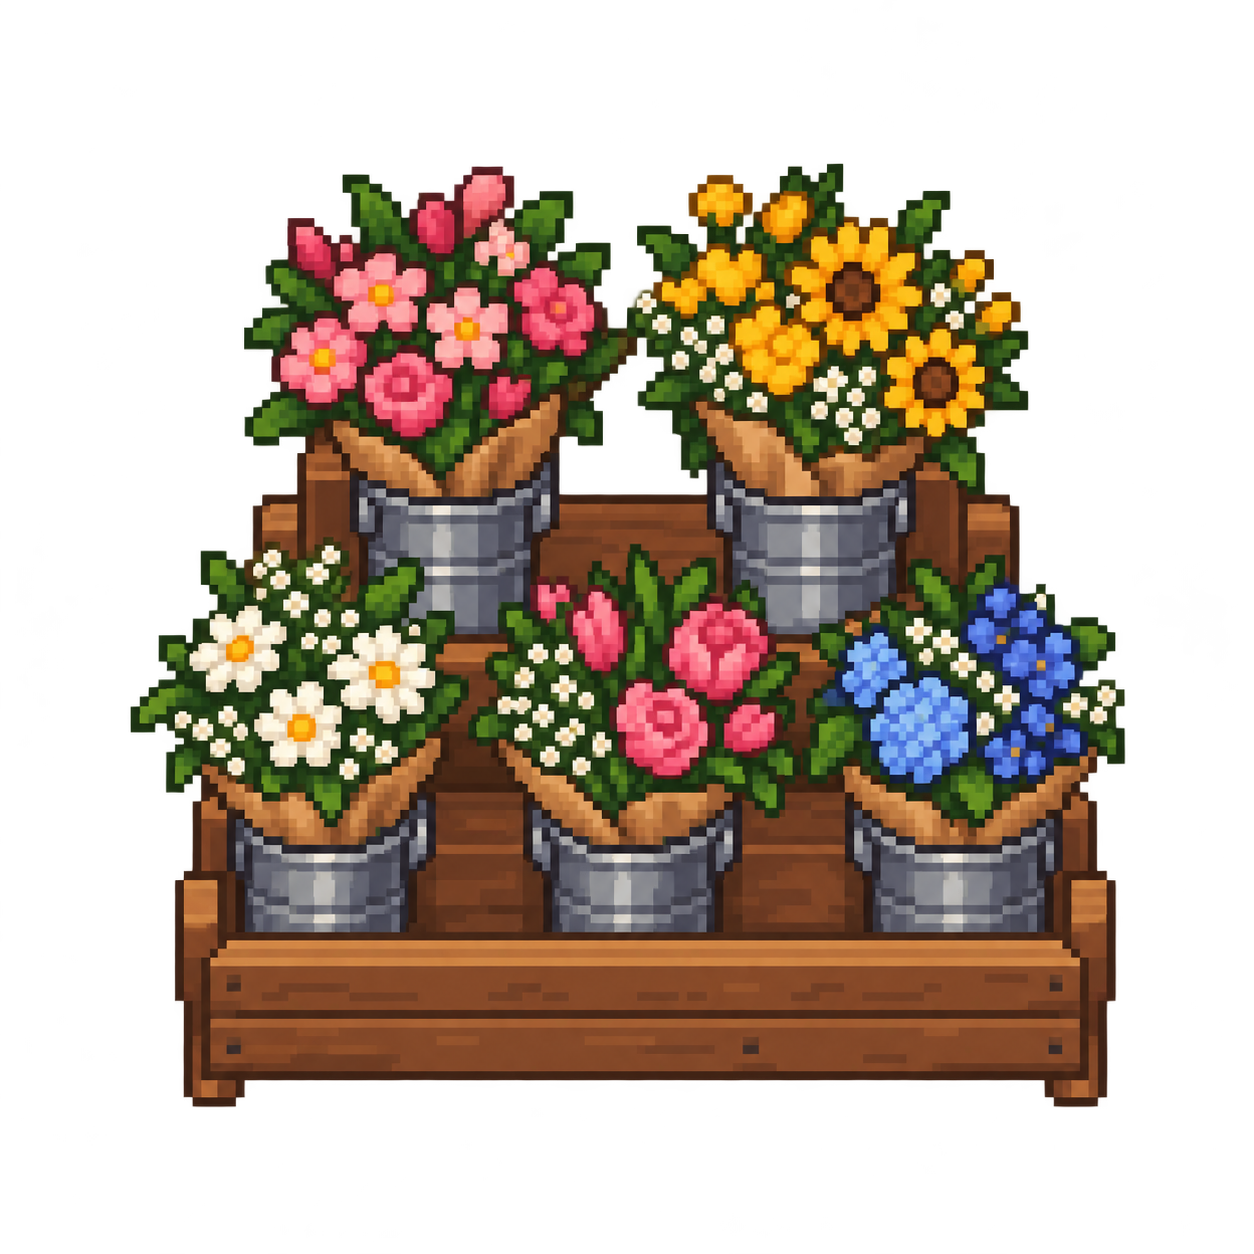
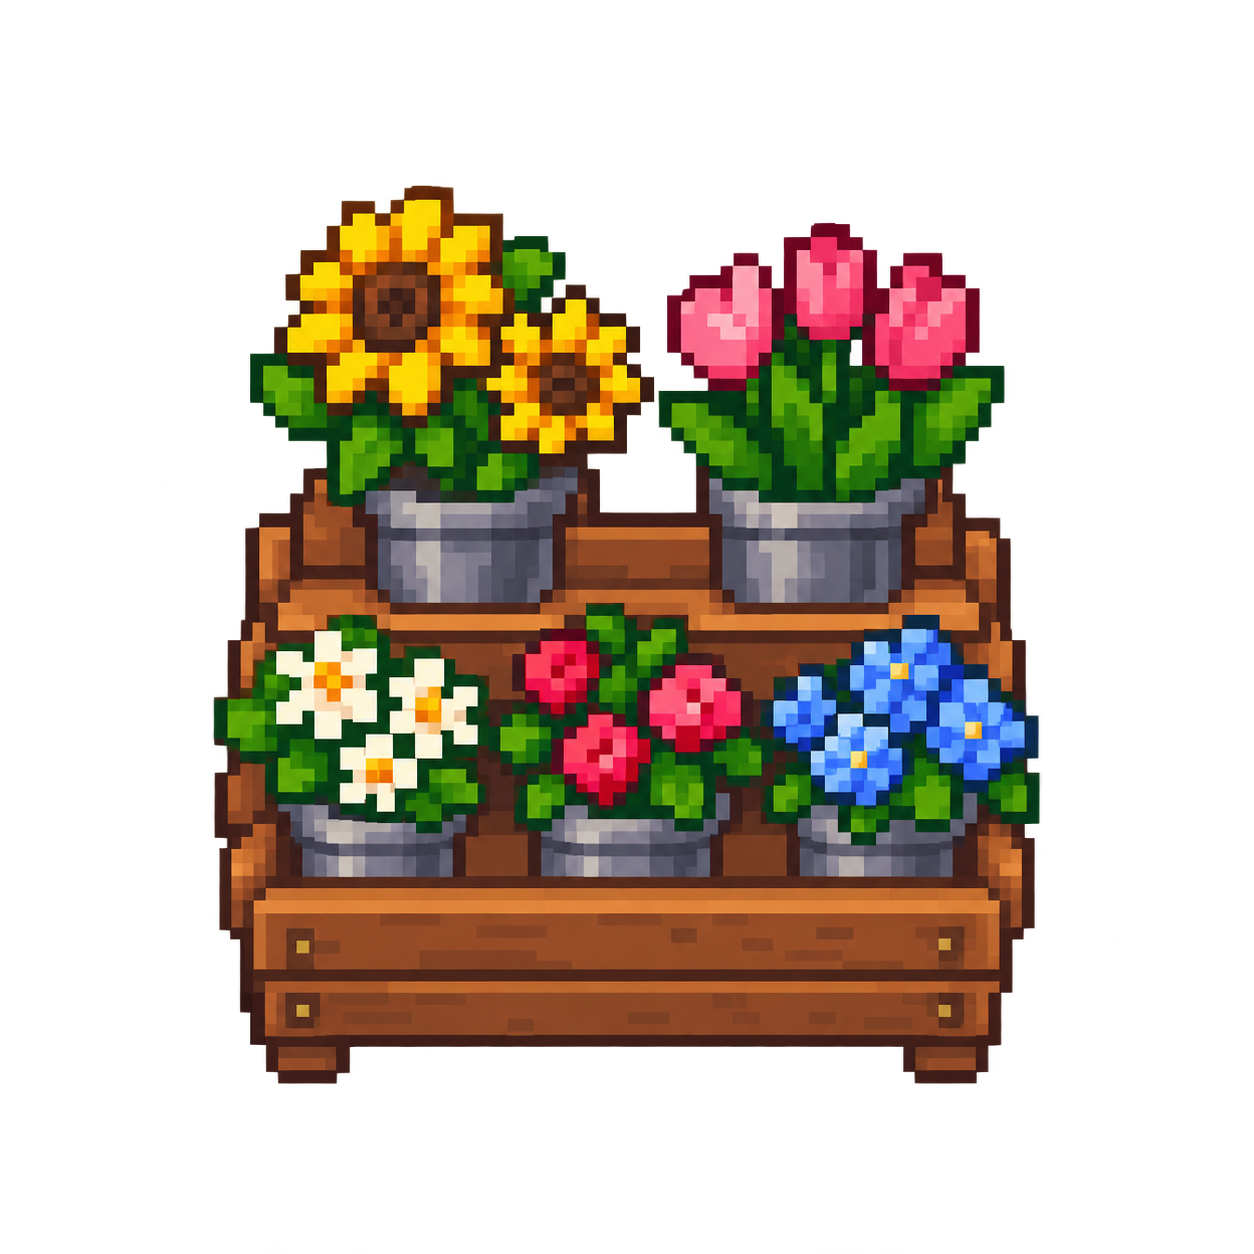
added coins and time tracking

diff --git a/src/main.js b/src/main.js
@@ -21,12 +21,16 @@ import bookshelfTallUrl from '../assets/tallbookshelf.png';
 import flowerShelfUrl from '../assets/flowershelf.png';
 import cashRegisterUrl from '../assets/cashregister.png';
 import flowerPotsUrl from '../assets/flowerpots.png';
+import longerFlowerUrl from '../assets/longerflower.png';
 import flowerPostUrl from '../assets/flowerpost.png';
 import flowerTentUrl from '../assets/flowertent.png';
 import fountainUrl from '../assets/fountain.png';
 import slideUrl from '../assets/slide.png';
 import wildflowersUrl from '../assets/wildflowers.png';
 import librarySignUrl from '../assets/librarysign.png';
+import coinUrl from '../assets/coin.png';
+import sunUrl from '../assets/sun.png';
+import moonUrl from '../assets/Moon.png';
 
 const canvas = document.getElementById('game');
 const screen = canvas.getContext('2d');
@@ -413,9 +417,7 @@ const SHOP = { x: 300, w: 680, bottom: 390, door: { x: 565, w: 150 } };
 const SHOP_PLAZA_Y = 440;
 const SHOP_SHELF_BOTTOM = 206;
 const SHOP_WALL_SHELF_SPECS = [
-  { frame: 'flowerShelf', x: 330, h: 150 },
-  { frame: 'flowerShelf', x: 466, h: 150 },
-  { frame: 'flowerShelf', x: 674, h: 150 },
+  { frame: 'flowerShelf', x: 360, h: 150 },
   { frame: 'flowerShelf', x: 810, h: 150 },
 ];
 let shopWallShelves = [];
@@ -430,7 +432,7 @@ const SHOP_WALKABLE = [
 const SHOP_ITEMS = [
   // inside
   { frame: 'cashRegister', x: 345, y: 235, h: 100, hits: [[0.02, 0.5, 0.96, 0.5]] },
-  { frame: 'flowerPots', x: 820, y: 225, h: 120, hits: [[0.05, 0.55, 0.9, 0.45]] },
+  { frame: 'longerFlower', x: 512, y: 100, h: 106, hits: [] },
   { s: 'plant_large', x: 335, y: 320, ground: true },
   { s: 'plant_large', x: 915, y: 320, ground: true },
   { s: 'plant_flower', x: 790, y: 330, ground: true },
@@ -582,12 +584,16 @@ const PLAYER_URLS = {
   flowerShelf: flowerShelfUrl,
   cashRegister: cashRegisterUrl,
   flowerPots: flowerPotsUrl,
+  longerFlower: longerFlowerUrl,
   flowerPost: flowerPostUrl,
   flowerTent: flowerTentUrl,
   fountain: fountainUrl,
   slide: slideUrl,
   wildflowers: wildflowersUrl,
   librarySign: librarySignUrl,
+  coin: coinUrl,
+  sun: sunUrl,
+  moon: moonUrl,
 };
 let grassImage = null;
 const frames = {};
@@ -985,9 +991,174 @@ function buildScenes() {
   };
 
   scene = scenes.cafe;
+  spawnCoins();
 }
 
-function render() {
+// ---- Clock, coins, HUD ----
+
+const COIN_VALUE = 10;
+const COINS_PER_SCENE = 6;
+const DAY_START = 6 * 60;
+const DAY_END = 26 * 60;
+const CLOCK_RATE = 10 / 7; // game minutes per real second
+const WEEKDAYS = ['Mon', 'Tue', 'Wed', 'Thu', 'Fri', 'Sat', 'Sun'];
+const SAVE_KEY = 'moonlightCafeSave';
+
+const game = { coins: 0, day: 1, minutes: 9 * 60 + 30, coinBump: 0 };
+const pops = [];
+let saveTimer = 0;
+
+try {
+  const saved = JSON.parse(localStorage.getItem(SAVE_KEY));
+  if (saved) {
+    game.coins = saved.coins | 0;
+    game.day = Math.max(1, saved.day | 0);
+    game.minutes = Math.min(Math.max(saved.minutes || DAY_START, DAY_START), DAY_END - 1);
+  }
+} catch { /* no saved game */ }
+
+function saveGame() {
+  try {
+    localStorage.setItem(SAVE_KEY, JSON.stringify({ coins: game.coins, day: game.day, minutes: Math.floor(game.minutes) }));
+  } catch { /* storage unavailable */ }
+}
+
+function mulberry32(seed) {
+  let a = seed >>> 0;
+  return () => {
+    a = (a + 0x6d2b79f5) >>> 0;
+    let t = a;
+    t = Math.imul(t ^ (t >>> 15), t | 1);
+    t ^= t + Math.imul(t ^ (t >>> 7), t | 61);
+    return ((t ^ (t >>> 14)) >>> 0) / 4294967296;
+  };
+}
+
+function spawnCoins() {
+  const active = scene;
+  Object.keys(scenes).forEach((name, i) => {
+    scene = scenes[name];
+    const rand = mulberry32(game.day * 7919 + i * 104729);
+    const coins = [];
+    for (let tries = 0; tries < 600 && coins.length < COINS_PER_SCENE; tries++) {
+      const x = 70 + rand() * (W - 140);
+      const y = 90 + rand() * (H - 190);
+      const clear = [[0, 0], [-16, 0], [16, 0], [0, -14], [0, 14]].every(([dx, dy]) => !blocked(x + dx, y + dy));
+      if (!clear || coins.some((c) => Math.hypot(c.x - x, c.y - y) < 150)) continue;
+      coins.push({ x, y, phase: rand() * Math.PI * 2, got: false });
+    }
+    scene.coins = coins;
+  });
+  scene = active;
+}
+
+function updateGame(dt) {
+  game.minutes += CLOCK_RATE * dt;
+  if (game.minutes >= DAY_END) {
+    game.day += 1;
+    game.minutes = DAY_START;
+    spawnCoins();
+    saveGame();
+  }
+  game.coinBump = Math.max(0, game.coinBump - dt * 4);
+
+  for (const c of scene.coins) {
+    if (c.got) continue;
+    if (Math.abs(c.x - player.x) < 26 && Math.abs(c.y - player.y) < 22) {
+      c.got = true;
+      game.coins += COIN_VALUE;
+      game.coinBump = 1;
+      pops.push({ x: c.x, y: c.y - 30, t: 0 });
+      saveGame();
+    }
+  }
+  for (const p of pops) p.t += dt;
+  while (pops.length && pops[0].t > 0.9) pops.shift();
+
+  saveTimer += dt;
+  if (saveTimer > 5) { saveTimer = 0; saveGame(); }
+}
+
+function drawIcon(name, cx, cy, h, w = null) {
+  const f = frames[name];
+  const dh = h;
+  const dw = w ?? Math.round(h * (f.sw / f.sh));
+  ctx.drawImage(f.img, f.sx, f.sy, f.sw, f.sh, Math.round(cx - dw / 2), Math.round(cy - dh / 2), dw, dh);
+}
+
+function drawCoin(c, time) {
+  const bob = Math.sin(time * 3 + c.phase) * 3;
+  const spin = Math.abs(Math.cos(time * 3.2 + c.phase));
+  const cx = Math.round(c.x);
+  const cy = Math.round(c.y - 20 + bob);
+  ctx.fillStyle = 'rgba(0, 0, 0, 0.22)';
+  ctx.beginPath();
+  ctx.ellipse(cx, Math.round(c.y), 9, 3, 0, 0, Math.PI * 2);
+  ctx.fill();
+  drawIcon('coin', cx, cy, 24, Math.max(5, Math.round(24 * spin)));
+}
+
+function drawPanel(x, y, w, h) {
+  ctx.fillStyle = '#3a2112';
+  ctx.beginPath(); ctx.roundRect(x, y, w, h, 8); ctx.fill();
+  ctx.fillStyle = '#a8672c';
+  ctx.beginPath(); ctx.roundRect(x + 2, y + 2, w - 4, h - 4, 6); ctx.fill();
+  ctx.fillStyle = '#f3dba2';
+  ctx.beginPath(); ctx.roundRect(x + 5, y + 5, w - 10, h - 10, 4); ctx.fill();
+}
+
+function drawHud() {
+  const minutes = Math.floor(game.minutes / 10) * 10;
+  const hour = Math.floor(minutes / 60) % 24;
+  const mm = String(minutes % 60).padStart(2, '0');
+  const timeText = `${hour % 12 || 12}:${mm} ${hour < 12 ? 'AM' : 'PM'}`;
+  const dayText = `${WEEKDAYS[(game.day - 1) % 7]} ${((game.day - 1) % 28) + 1}`;
+  const isDay = game.minutes >= 6 * 60 && game.minutes < 19 * 60;
+
+  const pw = 268;
+  const ph = 50;
+  const px = W - pw - 14;
+  drawPanel(px, 12, pw, ph);
+  ctx.textBaseline = 'middle';
+  ctx.font = 'bold 19px "Courier New", monospace';
+  ctx.fillStyle = '#3a2112';
+  ctx.textAlign = 'left';
+  ctx.fillText(dayText, px + 18, 38);
+  drawIcon(isDay ? 'sun' : 'moon', px + 120, 37, 40);
+  ctx.textAlign = 'right';
+  ctx.fillText(timeText, px + pw - 16, 38);
+
+  const cw = 176;
+  const ch = 48;
+  const cx0 = W - cw - 14;
+  const bump = Math.round(game.coinBump * 3);
+  drawPanel(cx0, 68 - bump, cw, ch);
+  drawIcon('coin', cx0 + 32, 92 - bump, 34);
+  ctx.fillStyle = '#3a2112';
+  ctx.textAlign = 'right';
+  ctx.fillText(String(game.coins), cx0 + cw - 18, 93 - bump);
+  ctx.textAlign = 'left';
+  ctx.textBaseline = 'alphabetic';
+}
+
+function drawPops() {
+  ctx.font = 'bold 16px "Courier New", monospace';
+  ctx.textAlign = 'center';
+  ctx.textBaseline = 'middle';
+  for (const p of pops) {
+    const k = p.t / 0.9;
+    ctx.globalAlpha = 1 - k * k;
+    ctx.fillStyle = '#3a2112';
+    ctx.fillText(`+${COIN_VALUE}`, p.x + 1, p.y - k * 26 + 1);
+    ctx.fillStyle = '#ffd23f';
+    ctx.fillText(`+${COIN_VALUE}`, p.x, p.y - k * 26);
+  }
+  ctx.globalAlpha = 1;
+  ctx.textAlign = 'left';
+  ctx.textBaseline = 'alphabetic';
+}
+
+function render(time) {
   ctx.imageSmoothingEnabled = true;
   ctx.imageSmoothingQuality = 'high';
   ctx.drawImage(scene.bg, 0, 0);
@@ -999,12 +1170,17 @@ function render() {
       ctx.drawImage(it.img, Math.round(it.x), Math.round(it.y), it.w, it.h);
     },
   }));
+  for (const c of scene.coins) {
+    if (!c.got) drawables.push({ bottom: c.y, draw: () => drawCoin(c, time / 1000) });
+  }
   drawables.push({ bottom: player.y, draw: drawPlayer });
   drawables.sort((a, b) => a.bottom - b.bottom);
   for (const d of drawables) d.draw();
 
+  drawPops();
   if (showHitboxes) drawHitboxes();
   drawFade();
+  drawHud();
 }
 
 let lastTime = 0;
@@ -1012,7 +1188,8 @@ function frame(time) {
   const dt = Math.min((time - lastTime) / 1000, 0.05);
   lastTime = time;
   updatePlayer(dt);
-  render();
+  updateGame(dt);
+  render(time);
   requestAnimationFrame(frame);
 }
 
